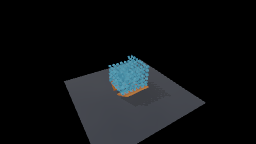
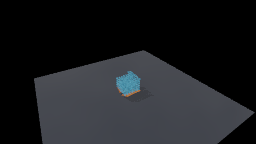
Bound live physics catch-up and cap the box demo at 4000

Changed region(s): [[0.125, 0.3333, 1.0, 1.0]]

diff --git a/crates/manifold-renderer/src/node_graph/physics.rs b/crates/manifold-renderer/src/node_graph/physics.rs
@@ -5,8 +5,44 @@ use manifold_physics::{BodyConfig, BodyHandle, BodyKind, PhysicsWorld};
 use super::transform::Transform;
 use crate::generators::platonic_geometry::platonic_points;
 
+const LIVE_MAX_TICKS: usize = 4;
+const LIVE_STEP_BUDGET: std::time::Duration = std::time::Duration::from_millis(4);
+
+thread_local! {
+    // Offline callers remain exact unless a live render explicitly scopes them.
+    static LIVE_STEPPING: std::cell::Cell<bool> = const { std::cell::Cell::new(false) };
+}
+
+/// Select live catch-up or exact export stepping for this thread's render.
+/// Restores the outer policy even on early return; must stay on this thread.
+#[must_use]
+pub struct PhysicsStepScope {
+    previous: bool,
+    _thread_bound: std::marker::PhantomData<std::rc::Rc<()>>,
+}
+
+impl PhysicsStepScope {
+    pub fn for_render(export_mode: bool) -> Self {
+        let previous = LIVE_STEPPING.with(|live| live.replace(!export_mode));
+        Self {
+            previous,
+            _thread_bound: std::marker::PhantomData,
+        }
+    }
+}
+
+impl Drop for PhysicsStepScope {
+    fn drop(&mut self) {
+        LIVE_STEPPING.with(|live| live.set(self.previous));
+    }
+}
+
+fn live_budget_exhausted(completed: usize, elapsed: std::time::Duration) -> bool {
+    completed >= LIVE_MAX_TICKS || elapsed >= LIVE_STEP_BUDGET
+}
+
 pub const MAX_BODIES: usize = 16;
-pub const MAX_COPIES: usize = 4096;
+pub const MAX_COPIES: usize = 4_000;
 pub const BODY_PORTS: [&str; MAX_BODIES] = [
     "body_0", "body_1", "body_2", "body_3", "body_4", "body_5", "body_6", "body_7", "body_8",
     "body_9", "body_10", "body_11", "body_12", "body_13", "body_14", "body_15",
@@ -100,6 +136,9 @@ pub struct RigidSimulation {
     pub copy_poses: Vec<Transform>,
     pub active_copy_count: usize,
     pub physics_ms: f32,
+    /// Simulation time omitted by live catch-up limiting in the last evaluation.
+    pub dropped_time: Seconds,
+    last_overload_warning: Option<std::time::Instant>,
 }
 
 impl Default for RigidSimulation {
@@ -121,12 +160,14 @@ impl Default for RigidSimulation {
             copy_poses: vec![Transform::default(); MAX_COPIES],
             active_copy_count: 0,
             physics_ms: 0.0,
+            dropped_time: Seconds::ZERO,
+            last_overload_warning: None,
         }
     }
 }
 
 impl RigidSimulation {
-    /// 120 Hz outer ticks, four Box3D substeps each. A paused transport contributes no time.
+    /// 60 Hz outer ticks, four Box3D substeps each. A paused transport contributes no time.
     pub fn advance(
         &mut self,
         bodies: [Option<RigidBody>; MAX_BODIES],
@@ -343,13 +384,10 @@ impl RigidSimulation {
             self.accumulator = 0.0;
         }
         let elapsed = now.0 - self.last_time.unwrap_or(now).0;
-        // Never silently drop simulation time when the live/export caller overruns the bounded step budget.
+        // Live frames discard excess catch-up; offline/export evaluates every tick.
         let accumulated = self.accumulator + elapsed * f64::from(speed);
-        const TICK: f64 = 1.0 / 120.0;
+        const TICK: f64 = 1.0 / 60.0;
         let steps = ((accumulated + 1e-9) / TICK).floor() as usize;
-        if steps > 128 {
-            return Err("Physics step budget exceeded; reset the simulation to resume".into());
-        }
         let world = self.world.as_mut().expect("world constructed above");
         world.set_gravity(gravity).map_err(|e| e.to_string())?;
         for (i, body) in bodies.iter().enumerate() {
@@ -389,9 +427,29 @@ impl RigidSimulation {
             }
         }
         let physics_start = std::time::Instant::now();
+        let live = LIVE_STEPPING.with(std::cell::Cell::get);
+        let mut completed = 0;
         for _ in 0..steps {
             world.step(Seconds(TICK), 4).map_err(|e| e.to_string())?;
+            completed += 1;
+            // A native tick cannot be preempted. Yield before starting another.
+            if live && live_budget_exhausted(completed, physics_start.elapsed()) {
+                break;
+            }
         }
+        self.dropped_time = Seconds((steps - completed) as f64 * TICK);
+        if self.dropped_time.0 > 0.0
+            && self
+                .last_overload_warning
+                .is_none_or(|last| last.elapsed().as_secs() >= 2)
+        {
+            log::warn!(
+                "Physics overload: dropped {:.1} ms of live catch-up after {completed} ticks; continuing automatically",
+                self.dropped_time.0 * 1000.0
+            );
+            self.last_overload_warning = Some(std::time::Instant::now());
+        }
+        // Remove ALL due ticks from the backlog, retaining only fractional time.
         self.accumulator = (accumulated - steps as f64 * TICK).max(0.0);
         self.last_time = Some(now);
         self.reset_count = Some(reset_count);
@@ -737,21 +795,72 @@ mod tests {
     }
 
     #[test]
-    fn overrun_errors_and_a_reset_recovers() {
+    fn long_catch_up_matches_regular_ticks_and_keeps_running() {
         let bodies = one_body([0.0, 4.0, 0.0]);
-        let mut simulation = RigidSimulation::default();
-        simulation
+        let mut caught_up = RigidSimulation::default();
+        let mut regular = RigidSimulation::default();
+        caught_up
             .advance(bodies, GRAVITY, Seconds::ZERO, 1.0, 0.0)
             .unwrap();
-        let error = simulation
-            .advance(bodies, GRAVITY, Seconds(2.0), 1.0, 0.0)
-            .unwrap_err();
-        assert!(error.contains("step budget"));
-
-        simulation
-            .advance(bodies, GRAVITY, Seconds(2.0), 1.0, 1.0)
+        for frame in 0..=181 {
+            regular
+                .advance(bodies, GRAVITY, Seconds(frame as f64 * FRAME), 1.0, 0.0)
+                .unwrap();
+        }
+        caught_up
+            .advance(bodies, GRAVITY, Seconds(180.0 * FRAME), 1.0, 0.0)
             .unwrap();
-        assert_eq!(simulation.poses[0].pos, [0.0, 4.0, 0.0]);
+        caught_up
+            .advance(bodies, GRAVITY, Seconds(181.0 * FRAME), 1.0, 0.0)
+            .unwrap();
+        assert_eq!(caught_up.poses, regular.poses);
+        caught_up
+            .advance(bodies, GRAVITY, Seconds(181.0 * FRAME), 1.0, 1.0)
+            .unwrap();
+        assert_eq!(caught_up.poses[0].pos, [0.0, 4.0, 0.0]);
+    }
+
+    #[test]
+    fn live_catch_up_discards_backlog_and_next_frame_advances() {
+        let _scope = PhysicsStepScope::for_render(false);
+        let bodies = one_body([0.0, 4.0, 0.0]);
+        let mut sim = RigidSimulation::default();
+        sim.advance(bodies, GRAVITY, Seconds::ZERO, 1.0, 0.0)
+            .unwrap();
+        sim.advance(bodies, GRAVITY, Seconds(3.0 + FRAME / 2.0), 1.0, 0.0)
+            .unwrap();
+        assert!(sim.dropped_time.0 >= 3.0 - LIVE_MAX_TICKS as f64 * FRAME - 1e-9);
+        assert!((sim.accumulator - FRAME / 2.0).abs() < 1e-9);
+        let previous_y = sim.poses[0].pos[1];
+        sim.advance(bodies, GRAVITY, Seconds(3.0 + FRAME), 1.0, 0.0)
+            .unwrap();
+        assert_eq!(sim.dropped_time, Seconds::ZERO);
+        assert!(sim.poses[0].pos[1] < previous_y);
+        assert!(sim.accumulator < 1e-9);
+    }
+
+    #[test]
+    fn render_scope_restores_live_and_export_policy() {
+        assert!(!LIVE_STEPPING.with(std::cell::Cell::get));
+        {
+            let _live = PhysicsStepScope::for_render(false);
+            assert!(LIVE_STEPPING.with(std::cell::Cell::get));
+            {
+                let _export = PhysicsStepScope::for_render(true);
+                long_catch_up_matches_regular_ticks_and_keeps_running();
+                assert!(!LIVE_STEPPING.with(std::cell::Cell::get));
+            }
+            assert!(LIVE_STEPPING.with(std::cell::Cell::get));
+        }
+        assert!(!LIVE_STEPPING.with(std::cell::Cell::get));
+    }
+
+    #[test]
+    fn live_budget_stops_at_either_time_or_tick_limit() {
+        use std::time::Duration;
+        assert!(!live_budget_exhausted(1, Duration::from_millis(1)));
+        assert!(live_budget_exhausted(1, LIVE_STEP_BUDGET));
+        assert!(live_budget_exhausted(LIVE_MAX_TICKS, Duration::ZERO));
     }
 
     #[test]
@@ -950,7 +1059,7 @@ mod tests {
     }
 
     #[test]
-    fn bulk_boxes_share_floor_contacts_and_reset_recovers_overrun() {
+    fn bulk_boxes_share_floor_contacts_and_reset_after_catch_up() {
         let mut bodies = [None; MAX_BODIES];
         let mut ground = body([0.0, -0.28867513, 0.0]);
         ground.kind = 0;
@@ -997,20 +1106,6 @@ mod tests {
             sim.copy_poses, held,
             "zero speed holds and count edit stays pending"
         );
-        assert!(
-            sim.advance_with_copies(
-                bodies,
-                Some(prototype),
-                64.0,
-                1.25,
-                4.0,
-                GRAVITY,
-                Seconds(7.0),
-                1.0,
-                0.0
-            )
-            .is_err()
-        );
         sim.advance_with_copies(
             bodies,
             Some(prototype),
@@ -1018,7 +1113,19 @@ mod tests {
             1.25,
             4.0,
             GRAVITY,
-            Seconds(7.0),
+            Seconds(8.0),
+            1.0,
+            0.0,
+        )
+        .unwrap();
+        sim.advance_with_copies(
+            bodies,
+            Some(prototype),
+            64.0,
+            1.25,
+            4.0,
+            GRAVITY,
+            Seconds(8.0),
             1.0,
             1.0,
         )

diff --git a/crates/manifold-renderer/src/node_graph/primitives/physics_world.rs b/crates/manifold-renderer/src/node_graph/primitives/physics_world.rs
@@ -131,7 +131,7 @@ impl InstanceUploadState {
 crate::primitive! {
  name: PhysicsWorldNode,
  type_id: "node.physics_world",
- purpose: "Advance one shared Box3D rigid-body world at fixed 120 Hz ticks and output its body transforms. Sixteen independently wired body descriptions and an optional reset-latched copies prototype share contacts. Gravity and simulation speed are live controls; Reset restores the authored starting poses and copy layout.",
+ purpose: "Advance one shared Box3D rigid-body world at fixed 60 Hz ticks and output its body transforms. Sixteen independently wired body descriptions and an optional reset-latched copies prototype share contacts. Gravity and simulation speed are live controls; Reset restores the authored starting poses and copy layout.",
  inputs: {
 body_0: RigidBody optional,
 body_1: RigidBody optional,
@@ -186,7 +186,7 @@ ParamDef { name: Cow::Borrowed("copy_columns"), label: "Copy Columns", ty: Param
 ParamDef { name: Cow::Borrowed("copy_layout"), label: "Copy Layout", ty: ParamType::Enum, default: ParamValue::Enum(0), range: Some((0.0, 1.0)), enum_values: &["Grid", "Pile"] },
  ],
  depth_rule: Terminal,
- composition_notes: "Connect body_N to its matching pose_N consumer. Output transforms already include authored scale: connect directly to Scene Object transform, without applying that transform twice. Optional copies creates reset-latched bodies in the same native world and writes a fixed-capacity instances array plus active_count; copy_count, copy_spacing, copy_columns, and copy_layout are numeric port-shadowed controls and apply on first build, reset, or backwards transport. Grid preserves the centered x/z arrangement; Pile uses a compact deterministic cube-root layout with bounded jitter and index-seeded rotations. Copies require uniform positive scale. State follows the transport clock; pause holds, reset/backward time restores initial poses. More than 128 pending ticks reports an error instead of silently dropping time. Shape/scale/topology edits rebuild this world; contact-property edits preserve motion. Native world stays private; no mutable handle wires.",
+ composition_notes: "Connect body_N to its matching pose_N consumer. Output transforms already include authored scale: connect directly to Scene Object transform, without applying that transform twice. Optional copies creates reset-latched bodies in the same native world and writes a fixed-capacity instances array plus active_count; copy_count, copy_spacing, copy_columns, and copy_layout are numeric port-shadowed controls and apply on first build, reset, or backwards transport. Grid preserves the centered x/z arrangement; Pile uses a compact deterministic cube-root layout with bounded jitter and index-seeded rotations. Copies require uniform positive scale. State follows the transport clock; pause holds, reset/backward time restores initial poses. Live renders limit catch-up to four ticks and a 4 ms budget checked between ticks, discard excess whole ticks and recover automatically; export/offline renders retain exact elapsed time. Shape/scale/topology edits rebuild this world; contact-property edits preserve motion. Native world stays private; no mutable handle wires.",
  examples: ["PhysicsSolids", "PhysicsBoxes"],
  picker: { label: "Physics World", category: Atom },
  summary: "Simulate colliding objects together under gravity, with speed and reset controls.",

diff --git a/crates/manifold-renderer/tests/gpu_proofs/physics_boxes.rs b/crates/manifold-renderer/tests/gpu_proofs/physics_boxes.rs
@@ -130,7 +130,38 @@ fn physics_boxes_render_motion_and_latch_count_until_reset() {
                 .is_finite()
         );
     }
+    params.get_mut("40_copy_count").unwrap().value = 4_000.0;
+    params.get_mut("40_reset").unwrap().value = 3.0;
+    assert_eq!(render(184, &params).body_count, 4_003);
+    assert_eq!(render(185, &params).body_count, 4_003);
+    let full = readback_raw_halves(device, &target.texture, width, height);
+    assert!(manifold_renderer::headless_readback::mean_abs_half_diff(&full, &floor) > 0.001);
+    for bytes in full.chunks_exact(2) {
+        assert!(
+            half::f16::from_le_bytes([bytes[0], bytes[1]])
+                .to_f32()
+                .is_finite()
+        );
+    }
+    std::fs::write(
+        "/tmp/physics_boxes_4k.png",
+        readback_to_srgb_png(device, &target.texture, width, height),
+    )
+    .unwrap();
+    {
+        let _live = manifold_renderer::node_graph::physics::PhysicsStepScope::for_render(false);
+        assert_eq!(
+            render(600, &params).body_count,
+            4_003,
+            "live stall recovers without Reset"
+        );
+        assert_eq!(
+            render(601, &params).body_count,
+            4_003,
+            "next live frame still evaluates"
+        );
+    }
     eprintln!(
-        "Physics Boxes: 256 -> pending 32 -> Reset 32 -> Reset 0 verified; images /tmp/physics_boxes_initial.png and /tmp/physics_boxes_dropped.png"
+        "Physics Boxes: 256 -> pending 32 -> Reset 32 -> Reset 0 -> Reset 4000 verified; images /tmp/physics_boxes_initial.png and /tmp/physics_boxes_dropped.png"
     );
 }

diff --git a/crates/manifold-app/src/content_pipeline.rs b/crates/manifold-app/src/content_pipeline.rs
@@ -1990,6 +1990,8 @@ fn fs_main(in: VertexOutput) -> @location(0) vec4<f32> {{
         data_version: u64,
         audio_visuals: Option<&manifold_core::audio_visual::AudioVisualRegistry>,
     ) {
+        let _physics_scope =
+            manifold_renderer::node_graph::physics::PhysicsStepScope::for_render(export_mode);
         let _t_frame = std::time::Instant::now();
 
         // §5.4: one reset per frame; the generator and compositor wrappers

diff --git a/crates/manifold-renderer/tests/physics_scene.rs b/crates/manifold-renderer/tests/physics_scene.rs
@@ -39,7 +39,7 @@ fn physics_boxes_compiles_with_count_reset_and_shared_floor() {
         .unwrap();
     assert_eq!(
         (count.min, count.max, count.default_value),
-        (0.0, 4096.0, 256.0)
+        (0.0, 4000.0, 256.0)
     );
     assert!(count.whole_numbers && count.card_visible);
     assert!(

diff --git a/docs/BOX3D_PHYSICS_DESIGN.md b/docs/BOX3D_PHYSICS_DESIGN.md
@@ -54,13 +54,16 @@ Physics Solids demo. The original larger design remains a roadmap.
   to 108 vertices; the native collision shape is the actual convex hull. Authored
   transform scale applies to both, with mesh radius one. Existing materials, lights
   and cameras remain authoritative.
-- Transport seconds advance fixed 1/120-second ticks with four solver substeps.
+- Transport seconds advance fixed 1/60-second ticks with four solver substeps.
   A stationary clock or zero speed holds motion. Reset, backward time, and the
   existing runtime state-clear path restore authored starting poses. Shape, scale
   or body membership changes rebuild the world. Mass/contact-property edits preserve
   current motion; editing a starting position/rotation repositions that body.
-  More than 128 pending ticks reports an error and holds the last poses until Reset;
-  no elapsed time is silently discarded. Arbitrary-time seek replay is not provided.
+  Each live physics world catches up at most four whole ticks, with a four-millisecond
+  stepping budget checked between native steps. If more whole ticks are pending, excess whole ticks are discarded;
+  the fractional tick is retained and the transport clock is updated to the
+  current time. A native tick cannot be preempted once started. Exact export
+  renders do not discard elapsed ticks. Arbitrary-time seek replay is not provided.
 - The Physics Solids preset exposes each body's shape, motion, mass, friction and
   bounce through the scene panel's existing exposure and command path. Gravity,
   simulation speed and Reset belong to World. Graph editing is optional wiring.
@@ -72,13 +75,15 @@ Physics Solids demo. The original larger design remains a roadmap.
 ### Physics Boxes demo
 
 Load **Physics Boxes** from the generator picker. **Copy Count**
-selects 0–4,096 boxes; **Reset** rebuilds the starting pile at that count. The
+selects 0–4,000 boxes; **Reset** rebuilds the starting pile at that count. The
 initial count is 256. Boxes start in a compact, deterministically jittered pile
 with varied rotations,
 then tumble onto two opposing ramps that funnel them into each other. The floor,
 ramps, box geometry/contact properties, camera and lighting are authored in the preset.
+The stress-test floor uses X/Z scale 100, with a wider camera view and up to 24
+columns per pile row.
 Play advances the drop; pause holds it. The Performance HUD shows render frame interval, Physics CPU time and Bodies (including
-the fixed floor and two ramps). The 4,096 ceiling is a bounded demo capacity, not a measured
+the fixed floor and two ramps). The 4,000 ceiling is a bounded demo capacity, not a measured
 real-time limit or a Box3D engine limit.
 
 The existing `node.physics_world` accepts an optional `copies` rigid-body
@@ -91,7 +96,7 @@ repeats the same initial arrangement; it does not introduce a new random seed.
 initialization/Reset, not on slider motion. Copies require uniform scale because the existing
 `InstanceTransform` wire has one scale component. The `instances` output feeds
 `node.scene_object.instances`; `active_count` feeds its optional `instance_count`
-input, so drawing, shadows and RT use only active copies rather than the 4,096
+input, so drawing, shadows and RT use only active copies rather than the 4,000
 buffer capacity. Unwired instance count preserves existing behavior.
 
 Physics timing covers CPU stepping and pose extraction, excludes rebuilding and
@@ -318,15 +323,14 @@ anywhere · new modulation machinery (D6).
 
 ## 6. Performance (stated honestly)
 
-Step cost is CPU, on the content thread, inline (D2): box3d is built for "large
-piles" with SIMD; at the v1 cap (4096 bodies, substeps 4, worker_count 1) the
-expected step is well under 2 ms on Apple Silicon — **expected, not measured; P1's
-render-trace gate produces the real number** and the HUD keeps it visible live.
-Budget context: content render baseline is 4.5–5.5 ms in a 16.6 ms frame. Pose
-readout + quat→euler + upload at 4096 bodies is ~130 KB/frame through the existing
-compute-upload path — noise. If the measured step blows the budget, the knobs are
-(in order): body caps, substeps, then worker_count >1 with determinism re-gated —
-never async stepping.
+Step cost is CPU, on the content thread, inline (D2). The current stress-test
+capacity is 4,000 copies, with 60 Hz outer ticks, four substeps and one worker.
+Capacity is not a measured real-time guarantee; use the HUD to measure the scene.
+Pose upload at 4,000 copies is 128 KB/frame through the existing compute-upload
+path. Each live world has a four-tick catch-up cap and a four-millisecond total
+stepping budget checked between native steps; excess whole ticks are discarded while the fractional tick is retained and
+the clock is updated. Exact export renders simulate every elapsed tick. A native
+tick cannot be preempted once started.
 
 ## 7. Decided — do not reopen
 
